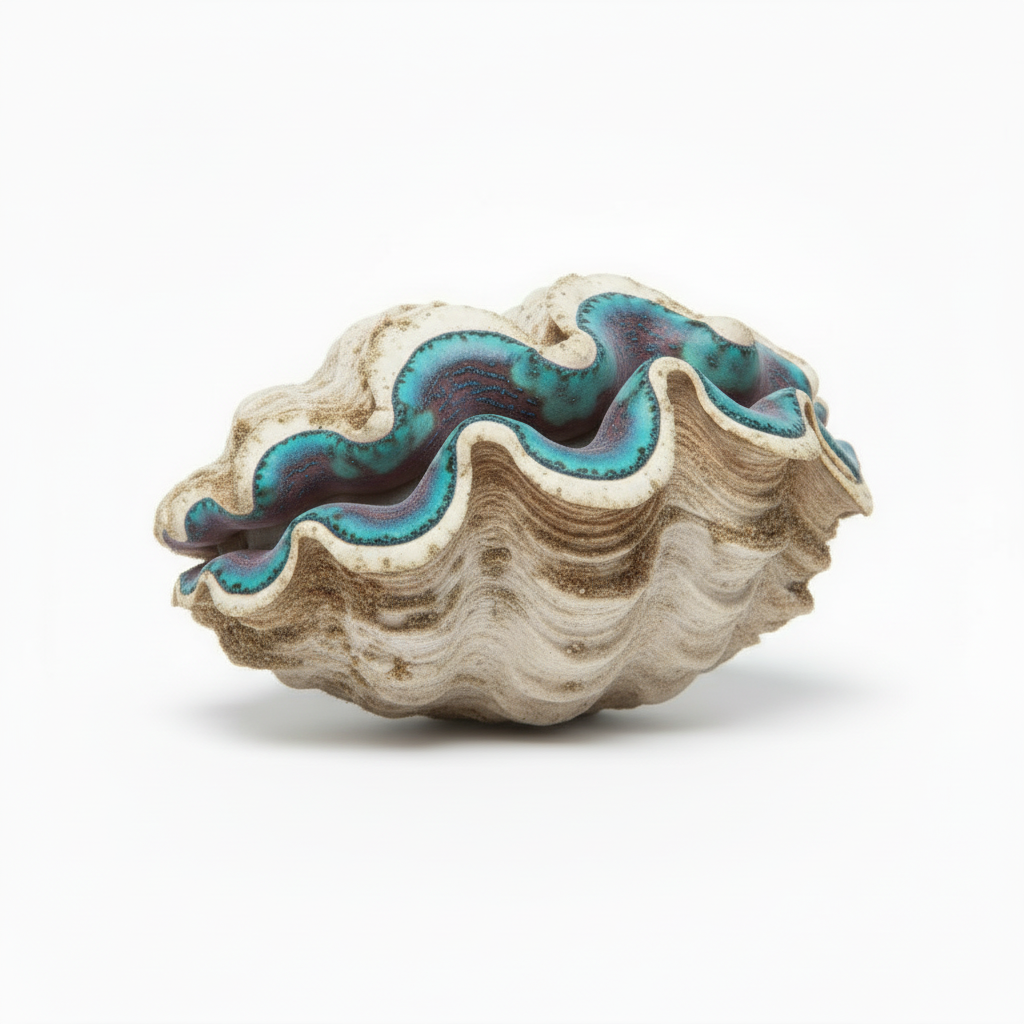
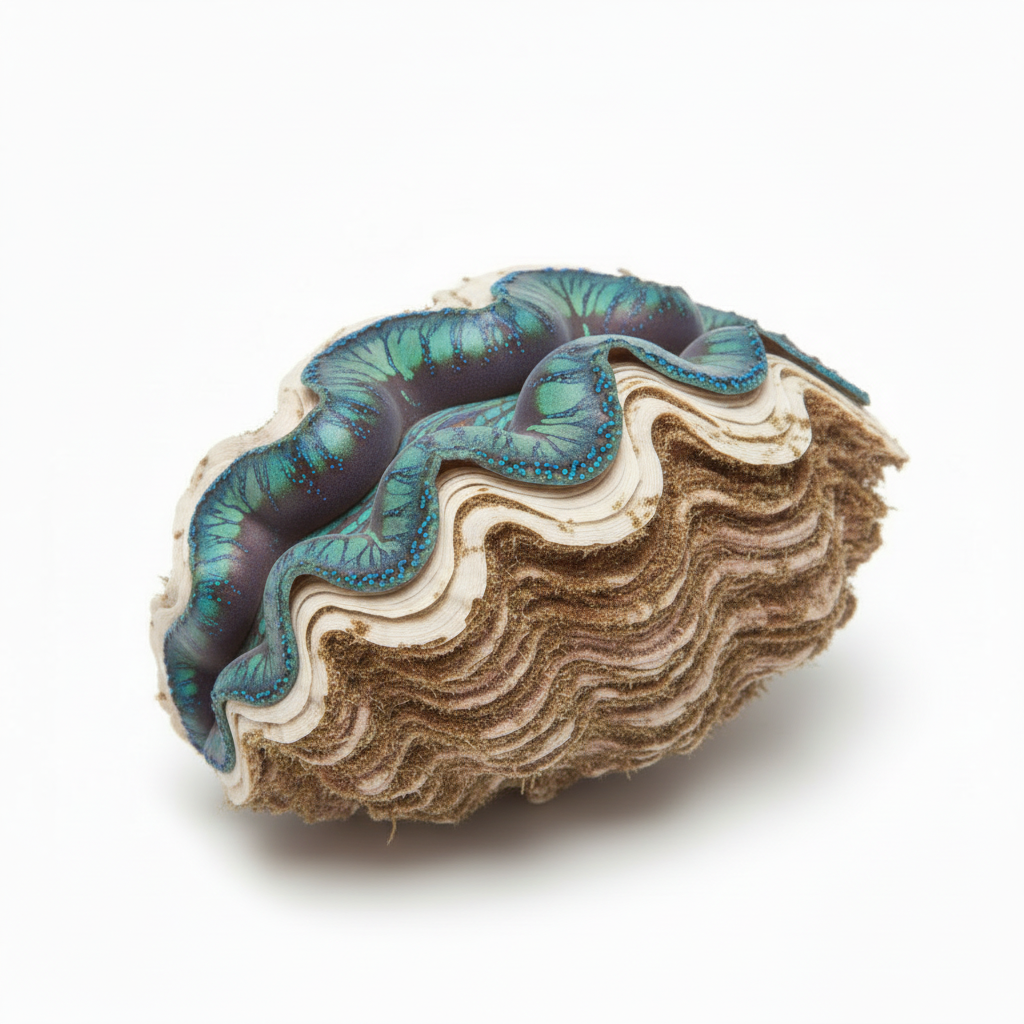
Update kerang illustrations and gallery entries; revise prompts for clarity and accuracy
- Enhanced prompts for left and right views of giant clam (Tridacna) to ensure distinct 90° rotations.
- Updated gallery to reflect the current count of images and corrected descriptions for several illustrations.
- Removed outdated images and replaced them with new versions that meet the specified criteria.
- Added new illustrations for liver and gallbladder, ensuring they adhere to educational standards.

diff --git a/osn-app/image-results/_galeri.html b/osn-app/image-results/_galeri.html
@@ -8,7 +8,7 @@ figcaption span{color:#fff;border-radius:99px;padding:1px 8px;font-size:12px}sma
 .tabs button.active{background:#0f172a;color:#fff;border-color:#0f172a}
 .tabs-mapel button{font-weight:600}
 .tabs-bab{margin-top:12px}</style>
-<h1>Galeri gambar OSN SD</h1><p>1658 gambar dari 352 objek · klik gambar untuk ukuran penuh · muat ulang halaman ini untuk melihat gambar terbaru (setelah menjalankan galeri.mjs lagi)</p>
+<h1>Galeri gambar OSN SD</h1><p>1656 gambar dari 352 objek · klik gambar untuk ukuran penuh · muat ulang halaman ini untuk melihat gambar terbaru (setelah menjalankan galeri.mjs lagi)</p>
 <nav class="tabs tabs-mapel"><button class="tab-mapel active" data-mapel="ipa">IPA</button><button class="tab-mapel" data-mapel="mtk">MTK</button></nav>
 <div class="panel-mapel" data-mapel="ipa" >
 <nav class="tabs tabs-bab"><button class="tab-bab active" data-bab="01-makhluk-hidup">01-makhluk-hidup</button><button class="tab-bab" data-bab="02-tubuh-manusia">02-tubuh-manusia</button><button class="tab-bab" data-bab="03-gaya-gerak-energi">03-gaya-gerak-energi</button><button class="tab-bab" data-bab="04-cahaya-bunyi-panas-zat">04-cahaya-bunyi-panas-zat</button><button class="tab-bab" data-bab="05-bumi-antariksa">05-bumi-antariksa</button><button class="tab-bab" data-bab="06-metode-ilmiah-alat-lab">06-metode-ilmiah-alat-lab</button></nav>
@@ -459,13 +459,9 @@ figcaption span{color:#fff;border-radius:99px;padding:1px 8px;font-size:12px}sma
 <figcaption><b>p06-ilustrasi-turnaround</b> <span style="background:#16a34a">lolos</span><small>Lolos: pupa Papilio hijau menempel tegak dengan sabuk sutra.</small></figcaption></figure></div></section><section><h2>kerang <em>ipa/01-makhluk-hidup/kerang</em></h2><div class="grid"><figure><a href="ipa/01-makhluk-hidup/kerang/p01-realistis-turnaround.png" target="_blank"><img loading="lazy" src="ipa/01-makhluk-hidup/kerang/p01-realistis-turnaround.png" alt="kerang p01-realistis-turnaround.png"></a>
 <figcaption><b>p01-realistis-turnaround</b> <span style="background:#d97706">revisi</span><small>Tampak tidak sesuai (depan, engsel, engsel, depan). Prompt: &quot;Exactly four copies: front (mantle opening), back (hinge side), left side (narrow profile), right side.&quot;</small></figcaption></figure><figure><a href="ipa/01-makhluk-hidup/kerang/p02-realistis-depan.png" target="_blank"><img loading="lazy" src="ipa/01-makhluk-hidup/kerang/p02-realistis-depan.png" alt="kerang p02-realistis-depan.png"></a>
 <figcaption><b>p02-realistis-depan</b> <span style="background:#16a34a">lolos</span><small>Lolos: kima raksasa (Tridacna), cangkang bergelombang, mantel biru-hijau berbintik.</small></figcaption></figure><figure><a href="ipa/01-makhluk-hidup/kerang/p03-realistis-belakang.png" target="_blank"><img loading="lazy" src="ipa/01-makhluk-hidup/kerang/p03-realistis-belakang.png" alt="kerang p03-realistis-belakang.png"></a>
-<figcaption><b>p03-realistis-belakang</b> <span style="background:#16a34a">lolos</span><small>Lolos: kima raksasa (Tridacna), cangkang bergelombang, mantel biru-hijau berbintik.</small></figcaption></figure><figure><a href="ipa/01-makhluk-hidup/kerang/p04-realistis-kiri.png" target="_blank"><img loading="lazy" src="ipa/01-makhluk-hidup/kerang/p04-realistis-kiri.png" alt="kerang p04-realistis-kiri.png"></a>
-<figcaption><b>p04-realistis-kiri</b> <span style="background:#d97706">revisi</span><small>GAGAL LAGI (ke-2 kalinya) — cangkang kima (Tridacna) masih ditampilkan pada sudut diagonal 3/4 yang mirip dengan p05 (kanan): oval besar diagonal dari kiri-bawah ke kanan-atas, mantel biru-hijau bergelombang di sisi atas-kiri, lubang sifon di kanan-bawah. Dibanding p05, perbedaan sudut masih tipis/tidak jelas sebagai cerminan 90°. Karena kima tidak punya &quot;kepala&quot; yang jelas, sarankan memakai posisi lubang sifon sebagai jangkar orientasi yang konsisten. Correction (EN): &quot;Rotate the giant clam shell a clear, unambiguous 90° from the front view so the left-side render is visually distinct from the right-side render — use the siphon hole position as a fixed anatomical anchor to make the rotation unambiguous.&quot;</small></figcaption></figure><figure><a href="ipa/01-makhluk-hidup/kerang/p05-realistis-kanan.png" target="_blank"><img loading="lazy" src="ipa/01-makhluk-hidup/kerang/p05-realistis-kanan.png" alt="kerang p05-realistis-kanan.png"></a>
-<figcaption><b>p05-realistis-kanan</b> <span style="background:#d97706">revisi</span><small>GAGAL LAGI (ke-2 kalinya) — sama seperti p04: sudut diagonal 3/4 yang mirip dengan p04, bukan cerminan 90° yang jelas berbeda. Correction (EN) sama seperti p04.</small></figcaption></figure><figure><a href="ipa/01-makhluk-hidup/kerang/p07-ilustrasi-depan.png" target="_blank"><img loading="lazy" src="ipa/01-makhluk-hidup/kerang/p07-ilustrasi-depan.png" alt="kerang p07-ilustrasi-depan.png"></a>
+<figcaption><b>p03-realistis-belakang</b> <span style="background:#16a34a">lolos</span><small>Lolos: kima raksasa (Tridacna), cangkang bergelombang, mantel biru-hijau berbintik.</small></figcaption></figure><figure><a href="ipa/01-makhluk-hidup/kerang/p07-ilustrasi-depan.png" target="_blank"><img loading="lazy" src="ipa/01-makhluk-hidup/kerang/p07-ilustrasi-depan.png" alt="kerang p07-ilustrasi-depan.png"></a>
 <figcaption><b>p07-ilustrasi-depan</b> <span style="background:#16a34a">lolos</span><small>Lolos: kima raksasa (Tridacna), cangkang bergelombang, mantel biru-hijau berbintik.</small></figcaption></figure><figure><a href="ipa/01-makhluk-hidup/kerang/p08-ilustrasi-belakang.png" target="_blank"><img loading="lazy" src="ipa/01-makhluk-hidup/kerang/p08-ilustrasi-belakang.png" alt="kerang p08-ilustrasi-belakang.png"></a>
-<figcaption><b>p08-ilustrasi-belakang</b> <span style="background:#16a34a">lolos</span><small>Lolos: kima raksasa (Tridacna), cangkang bergelombang, mantel biru-hijau berbintik.</small></figcaption></figure><figure><a href="ipa/01-makhluk-hidup/kerang/p09-ilustrasi-kiri.png" target="_blank"><img loading="lazy" src="ipa/01-makhluk-hidup/kerang/p09-ilustrasi-kiri.png" alt="kerang p09-ilustrasi-kiri.png"></a>
-<figcaption><b>p09-ilustrasi-kiri</b> <span style="background:#d97706">revisi</span><small>GAGAL LAGI (ke-2 kalinya) — versi ilustrasi kiri dan kanan (p09/p10) nyaris IDENTIK: keduanya menampilkan cangkang simetris tampak depan dengan mantel bergelombang biru-ungu-hijau di tengah, tidak ada rotasi 90° yang membedakan kiri vs kanan. Correction (EN): &quot;Rotate the clam a clear 90° from the front view so the left-side illustration is visually distinct from the right-side illustration — the current pair look like near-duplicates of a front/symmetric view.&quot;</small></figcaption></figure><figure><a href="ipa/01-makhluk-hidup/kerang/p10-ilustrasi-kanan.png" target="_blank"><img loading="lazy" src="ipa/01-makhluk-hidup/kerang/p10-ilustrasi-kanan.png" alt="kerang p10-ilustrasi-kanan.png"></a>
-<figcaption><b>p10-ilustrasi-kanan</b> <span style="background:#d97706">revisi</span><small>GAGAL LAGI (ke-2 kalinya) — nyaris identik dengan p09 (kiri), bukan cerminan 90° yang jelas berbeda. Correction (EN) sama seperti p09.</small></figcaption></figure></div></section><section><h2>kerbau-jalak <em>ipa/01-makhluk-hidup/kerbau-jalak</em></h2><div class="grid"><figure><a href="ipa/01-makhluk-hidup/kerbau-jalak/p01-realistis-turnaround.png" target="_blank"><img loading="lazy" src="ipa/01-makhluk-hidup/kerbau-jalak/p01-realistis-turnaround.png" alt="kerbau-jalak p01-realistis-turnaround.png"></a>
+<figcaption><b>p08-ilustrasi-belakang</b> <span style="background:#16a34a">lolos</span><small>Lolos: kima raksasa (Tridacna), cangkang bergelombang, mantel biru-hijau berbintik.</small></figcaption></figure></div></section><section><h2>kerbau-jalak <em>ipa/01-makhluk-hidup/kerbau-jalak</em></h2><div class="grid"><figure><a href="ipa/01-makhluk-hidup/kerbau-jalak/p01-realistis-turnaround.png" target="_blank"><img loading="lazy" src="ipa/01-makhluk-hidup/kerbau-jalak/p01-realistis-turnaround.png" alt="kerbau-jalak p01-realistis-turnaround.png"></a>
 <figcaption><b>p01-realistis-turnaround</b> <span style="background:#16a34a">lolos</span><small>Disusun otomatis dari p02, p03, p04, p05 (depan, belakang, kiri, kanan) yang sudah lolos review.</small></figcaption></figure><figure><a href="ipa/01-makhluk-hidup/kerbau-jalak/p02-realistis-depan.png" target="_blank"><img loading="lazy" src="ipa/01-makhluk-hidup/kerbau-jalak/p02-realistis-depan.png" alt="kerbau-jalak p02-realistis-depan.png"></a>
 <figcaption><b>p02-realistis-depan</b> <span style="background:#16a34a">lolos</span><small>Lolos: kerbau dengan tanduk melengkung ke belakang dan burung jalak bertengger di punggung (simbiosis).</small></figcaption></figure><figure><a href="ipa/01-makhluk-hidup/kerbau-jalak/p03-realistis-belakang.png" target="_blank"><img loading="lazy" src="ipa/01-makhluk-hidup/kerbau-jalak/p03-realistis-belakang.png" alt="kerbau-jalak p03-realistis-belakang.png"></a>
 <figcaption><b>p03-realistis-belakang</b> <span style="background:#16a34a">lolos</span><small>Lolos: kerbau dengan tanduk melengkung ke belakang dan burung jalak bertengger di punggung (simbiosis).</small></figcaption></figure><figure><a href="ipa/01-makhluk-hidup/kerbau-jalak/p04-realistis-kiri.png" target="_blank"><img loading="lazy" src="ipa/01-makhluk-hidup/kerbau-jalak/p04-realistis-kiri.png" alt="kerbau-jalak p04-realistis-kiri.png"></a>
@@ -832,7 +828,9 @@ figcaption span{color:#fff;border-radius:99px;padding:1px 8px;font-size:12px}sma
 <figcaption><b>p05-realistis-kanan</b> <span style="background:#64748b">belum direview</span></figcaption></figure><figure><a href="ipa/02-tubuh-manusia/hati-empedu/p06-ilustrasi-turnaround.png" target="_blank"><img loading="lazy" src="ipa/02-tubuh-manusia/hati-empedu/p06-ilustrasi-turnaround.png" alt="hati-empedu p06-ilustrasi-turnaround.png"></a>
 <figcaption><b>p06-ilustrasi-turnaround</b> <span style="background:#d97706">revisi</span><small>Ada teks FRONT/BACK VIEW/LEFT SIDE/RIGHT VIEW. Prompt: &quot;No text.&quot;</small></figcaption></figure><figure><a href="ipa/02-tubuh-manusia/hati-empedu/p07-ilustrasi-depan.png" target="_blank"><img loading="lazy" src="ipa/02-tubuh-manusia/hati-empedu/p07-ilustrasi-depan.png" alt="hati-empedu p07-ilustrasi-depan.png"></a>
 <figcaption><b>p07-ilustrasi-depan</b> <span style="background:#16a34a">lolos</span><small>Lolos (perlu paraf guru IPA): lobus kanan lebih besar di sisi kiri gambar, ligamen falsiformis, kantong empedu di bawah lobus kanan, vena porta/arteri hepatik.</small></figcaption></figure><figure><a href="ipa/02-tubuh-manusia/hati-empedu/p08-ilustrasi-belakang.png" target="_blank"><img loading="lazy" src="ipa/02-tubuh-manusia/hati-empedu/p08-ilustrasi-belakang.png" alt="hati-empedu p08-ilustrasi-belakang.png"></a>
-<figcaption><b>p08-ilustrasi-belakang</b> <span style="background:#16a34a">lolos</span><small>Lolos (perlu paraf guru IPA): lobus kanan lebih besar di sisi kiri gambar, ligamen falsiformis, kantong empedu di bawah lobus kanan, vena porta/arteri hepatik.</small></figcaption></figure><figure><a href="ipa/02-tubuh-manusia/hati-empedu/p11-penampang-belah.png" target="_blank"><img loading="lazy" src="ipa/02-tubuh-manusia/hati-empedu/p11-penampang-belah.png" alt="hati-empedu p11-penampang-belah.png"></a>
+<figcaption><b>p08-ilustrasi-belakang</b> <span style="background:#16a34a">lolos</span><small>Lolos (perlu paraf guru IPA): lobus kanan lebih besar di sisi kiri gambar, ligamen falsiformis, kantong empedu di bawah lobus kanan, vena porta/arteri hepatik.</small></figcaption></figure><figure><a href="ipa/02-tubuh-manusia/hati-empedu/p09-ilustrasi-kiri.png" target="_blank"><img loading="lazy" src="ipa/02-tubuh-manusia/hati-empedu/p09-ilustrasi-kiri.png" alt="hati-empedu p09-ilustrasi-kiri.png"></a>
+<figcaption><b>p09-ilustrasi-kiri</b> <span style="background:#64748b">belum direview</span></figcaption></figure><figure><a href="ipa/02-tubuh-manusia/hati-empedu/p10-ilustrasi-kanan.png" target="_blank"><img loading="lazy" src="ipa/02-tubuh-manusia/hati-empedu/p10-ilustrasi-kanan.png" alt="hati-empedu p10-ilustrasi-kanan.png"></a>
+<figcaption><b>p10-ilustrasi-kanan</b> <span style="background:#64748b">belum direview</span></figcaption></figure><figure><a href="ipa/02-tubuh-manusia/hati-empedu/p11-penampang-belah.png" target="_blank"><img loading="lazy" src="ipa/02-tubuh-manusia/hati-empedu/p11-penampang-belah.png" alt="hati-empedu p11-penampang-belah.png"></a>
 <figcaption><b>p11-penampang-belah</b> <span style="background:#16a34a">lolos</span><small>Lobus kanan (reddish brown, lebih besar) di sisi KIRI gambar, lobus kiri (lebih pucat, lebih kecil) di sisi KANAN gambar — sesuai konvensi anatomis prompt. Kantong empedu hijau berada di bawah lobus kanan, posisi anatomis benar. Vena portal (ungu), arteri hepatik (merah), vena hepatik (biru) muncul di hilum atas dengan warna sesuai kode prompt. Inset lobulus hati heksagonal dengan vena sentral biru juga sesuai. Tidak ada teks, hanya lingkaran kosong untuk leader line — sesuai zero-text. Tetap disarankan verifikasi guru sains sebagai standar untuk gambar organ.</small></figcaption></figure><figure><a href="ipa/02-tubuh-manusia/hati-empedu/p12-penampang-transparan.png" target="_blank"><img loading="lazy" src="ipa/02-tubuh-manusia/hati-empedu/p12-penampang-transparan.png" alt="hati-empedu p12-penampang-transparan.png"></a>
 <figcaption><b>p12-penampang-transparan</b> <span style="background:#16a34a">lolos</span><small>Lolos (perlu paraf guru IPA): lobus kanan lebih besar di sisi kiri gambar, ligamen falsiformis, kantong empedu di bawah lobus kanan, vena porta/arteri hepatik.</small></figcaption></figure></div></section><section><h2>hidung-penampang <em>ipa/02-tubuh-manusia/hidung-penampang</em></h2><div class="grid"><figure><a href="ipa/02-tubuh-manusia/hidung-penampang/p01-realistis-depan.png" target="_blank"><img loading="lazy" src="ipa/02-tubuh-manusia/hidung-penampang/p01-realistis-depan.png" alt="hidung-penampang p01-realistis-depan.png"></a>
 <figcaption><b>p01-realistis-depan</b> <span style="background:#16a34a">lolos</span><small>Perbaikan berhasil: bulbus olfaktorius (bola di atas) sekarang berwarna krem/ivory pucat konsisten dengan jaringan saraf di sekitarnya, bukan lagi bola merah terang yang dulu menyerupai pembuluh darah/polip. Struktur lain (lubang hidung dengan rambut, konka melingkar bertumpuk, serat saraf) tampak proporsional. Tetap disarankan verifikasi guru sains untuk organ indera.</small></figcaption></figure><figure><a href="ipa/02-tubuh-manusia/hidung-penampang/p02-ilustrasi-depan.png" target="_blank"><img loading="lazy" src="ipa/02-tubuh-manusia/hidung-penampang/p02-ilustrasi-depan.png" alt="hidung-penampang p02-ilustrasi-depan.png"></a>

diff --git a/osn-app/image-prompts/ipa/01-makhluk-hidup/kerang.md b/osn-app/image-prompts/ipa/01-makhluk-hidup/kerang.md
@@ -155,18 +155,38 @@ View: strict FRONT view, full body. Orientation: FRONT = the animal faces the ca
 Using the exact same giant clam (Tridacna) shell slightly open from the previous image, rotate it 180° and show the strict BACK view. Keep everything identical: same object, same illustration style, line weight, shading, colors, proportions, and scale. Full body — nothing cropped. Same pure solid white background (#FFFFFF), no shadow, no text, nothing else in the frame.
 ```
 
-### Prompt 9 — Tampak KIRI
+### Prompt 9 — Tampak KIRI (standalone, bukan lanjutan sesi)
 
 **Simpan hasil sebagai:** `image-results/ipa/01-makhluk-hidup/kerang/p09-ilustrasi-kiri.png`
 
 ```text
-Using the exact same giant clam (Tridacna) shell slightly open from the previous images, rotate it to show the strict LEFT side profile (the object's own left side, exactly 90° from the front view, not three-quarter): the front/head of the object points to the LEFT edge of the image, pure side silhouette, head not turned toward the camera. Keep everything identical: same object, same illustration style, line weight, shading, colors, proportions, and scale. Full body — nothing cropped. Same pure solid white background (#FFFFFF), no shadow, no text, nothing else in the frame.
+High-quality, highly detailed educational illustration of a giant clam (Tridacna) shell slightly open. Two heavy wavy ribbed calcareous valves, cream-white exterior with growth ridges, slightly open to reveal the iridescent blue-green-purple mantle.
+Style: clean modern children's science-textbook illustration for elementary-school students (age 10–12) — crisp confident dark outlines with varied line weight, smooth soft cel shading (2–3 tone steps) plus gentle gradients, bright but true-to-life colors, simplified but anatomically and scientifically accurate shapes, every important part clearly readable. Friendly, clear, and appealing — not cute-chibi, not caricature, no exaggerated eyes or facial expressions.
+Accuracy: correct proportions, colors, number of parts (legs, fins, petals, segments, etc.), and structure exactly as in the real giant clam (Tridacna) shell slightly open.
+Lighting: one soft light source from the upper-left, consistent simple highlights and core shadows on the object only.
+Rendering: vector-like clean edges, high resolution, sharp, suitable for printing and for use as a cut-out sticker.
+Child-appropriate (students aged 10–12): in any rear or back view the tail hangs down naturally and covers the rear; no anus or genitals visible.
+Composition: ONLY this single object, centered, about 10% empty margin on every side.
+FULL BODY: the entire object shown completely from its topmost to bottommost point, including all extremities (legs, tail, antennae, wingtips, fins, roots, stems, cables, handles) — nothing cropped, nothing cut off by the frame edge.
+Background: isolated on a pure, flat, solid white background (#FFFFFF) — absolutely no scene, no environment, no floor, no table, no cast shadow, no reflection, no gradient, no vignette.
+Exclude: text, labels, letters, numbers, arrows, watermark, logo, brand names, human hands, extra objects, blood, gore, photorealism, photographic textures, 3D render look, sketchy or messy lines, paper texture.
+View: strict LEFT side view, full body. Orientation: rotate the SAME giant clam shell 90° from the front view so the camera looks at it edge-on from its left flank: the two overlapping wavy valves are now seen in profile, forming a rounded kidney-shaped silhouette. The straight dark hinge seam runs along the FAR edge of this silhouette (away from the viewer), while the wavy gaping margin where the iridescent mantle shows is visible only as a narrow sliver along the NEAR edge; most of the mantle is hidden from this angle. This must look clearly different from the front and right-side views — not a near-symmetric repeat.
 ```
 
-### Prompt 10 — Tampak KANAN
+### Prompt 10 — Tampak KANAN (standalone, bukan lanjutan sesi)
 
 **Simpan hasil sebagai:** `image-results/ipa/01-makhluk-hidup/kerang/p10-ilustrasi-kanan.png`
 
 ```text
-Using the exact same giant clam (Tridacna) shell slightly open from the previous images, rotate it to show the strict RIGHT side profile (the object's own right side, exactly 90° from the front view): the front/head of the object points to the RIGHT edge of the image (mirror of the left view), pure side silhouette, head not turned toward the camera. Keep everything identical: same object, same illustration style, line weight, shading, colors, proportions, and scale. Full body — nothing cropped. Same pure solid white background (#FFFFFF), no shadow, no text, nothing else in the frame.
+High-quality, highly detailed educational illustration of a giant clam (Tridacna) shell slightly open. Two heavy wavy ribbed calcareous valves, cream-white exterior with growth ridges, slightly open to reveal the iridescent blue-green-purple mantle.
+Style: clean modern children's science-textbook illustration for elementary-school students (age 10–12) — crisp confident dark outlines with varied line weight, smooth soft cel shading (2–3 tone steps) plus gentle gradients, bright but true-to-life colors, simplified but anatomically and scientifically accurate shapes, every important part clearly readable. Friendly, clear, and appealing — not cute-chibi, not caricature, no exaggerated eyes or facial expressions.
+Accuracy: correct proportions, colors, number of parts (legs, fins, petals, segments, etc.), and structure exactly as in the real giant clam (Tridacna) shell slightly open.
+Lighting: one soft light source from the upper-left, consistent simple highlights and core shadows on the object only.
+Rendering: vector-like clean edges, high resolution, sharp, suitable for printing and for use as a cut-out sticker.
+Child-appropriate (students aged 10–12): in any rear or back view the tail hangs down naturally and covers the rear; no anus or genitals visible.
+Composition: ONLY this single object, centered, about 10% empty margin on every side.
+FULL BODY: the entire object shown completely from its topmost to bottommost point, including all extremities (legs, tail, antennae, wingtips, fins, roots, stems, cables, handles) — nothing cropped, nothing cut off by the frame edge.
+Background: isolated on a pure, flat, solid white background (#FFFFFF) — absolutely no scene, no environment, no floor, no table, no cast shadow, no reflection, no gradient, no vignette.
+Exclude: text, labels, letters, numbers, arrows, watermark, logo, brand names, human hands, extra objects, blood, gore, photorealism, photographic textures, 3D render look, sketchy or messy lines, paper texture.
+View: strict RIGHT side view, full body. Orientation: rotate the SAME giant clam shell 90° to the opposite side from the front view — a true mirror image of the left-side illustration: the hinge seam runs along the far edge on the opposite side, the mantle-gape sliver mirrored to the near edge. This must look like a clear mirror of the left-side render, not a near-identical repeat.
 ```

diff --git a/osn-app/image-prompts/ipa/01-makhluk-hidup/kepiting.md b/osn-app/image-prompts/ipa/01-makhluk-hidup/kepiting.md
@@ -145,12 +145,22 @@ Exclude: text, labels, letters, numbers, arrows, watermark, logo, brand names, h
 View: strict FRONT view, full body. Orientation: FRONT = the animal faces the camera head-on; LEFT/RIGHT = full side profile showing the whole body length; BACK = seen from behind (tail end). The object faces the camera squarely: its centerline points straight at the lens and its left and right halves look symmetrical. Camera at mid-height, straight-on, orthographic, absolutely no three-quarter or angled pose.
 ```
 
-### Prompt 8 — Tampak BELAKANG (kirim di chat yang sama setelah Prompt 7)
+### Prompt 8 — Tampak BELAKANG (standalone, bukan lanjutan sesi)
 
 **Simpan hasil sebagai:** `image-results/ipa/01-makhluk-hidup/kepiting/p08-ilustrasi-belakang.png`
 
 ```text
-Using the exact same mud crab (Scylla serrata) from the previous image, rotate it 180° and show the strict BACK view. Keep everything identical: same object, same illustration style, line weight, shading, colors, proportions, and scale. Full body — nothing cropped. Same pure solid white background (#FFFFFF), no shadow, no text, nothing else in the frame.
+High-quality, highly detailed educational illustration of a mud crab (Scylla serrata). Standing. Dark olive-green hard carapace with serrated front edge, two large powerful claws (chelae), four pairs of walking legs, stalked eyes, jointed exoskeleton.
+Style: clean modern children's science-textbook illustration for elementary-school students (age 10–12) — crisp confident dark outlines with varied line weight, smooth soft cel shading (2–3 tone steps) plus gentle gradients, bright but true-to-life colors, simplified but anatomically and scientifically accurate shapes, every important part clearly readable. Friendly, clear, and appealing — not cute-chibi, not caricature, no exaggerated eyes or facial expressions.
+Accuracy: correct proportions, colors, number of parts (legs, fins, petals, segments, etc.), and structure exactly as in the real mud crab (Scylla serrata).
+Lighting: one soft light source from the upper-left, consistent simple highlights and core shadows on the object only.
+Rendering: vector-like clean edges, high resolution, sharp, suitable for printing and for use as a cut-out sticker.
+Child-appropriate (students aged 10–12): in any rear or back view the tail hangs down naturally and covers the rear; no anus or genitals visible.
+Composition: ONLY this single object, centered, about 10% empty margin on every side.
+FULL BODY: the entire object shown completely from its topmost to bottommost point, including all extremities (legs, tail, antennae, wingtips, fins, roots, stems, cables, handles) — nothing cropped, nothing cut off by the frame edge.
+Background: isolated on a pure, flat, solid white background (#FFFFFF) — absolutely no scene, no environment, no floor, no table, no cast shadow, no reflection, no gradient, no vignette.
+Exclude: text, labels, letters, numbers, arrows, watermark, logo, brand names, human hands, extra objects, blood, gore, photorealism, photographic textures, 3D render look, sketchy or messy lines, paper texture.
+View: strict BACK view, full body. Orientation: the SAME mud crab (Scylla serrata) rotated 180° from the front view so the camera looks at its posterior (rear) end: the two large claws (chelae) are folded down and tucked in FRONT of the body, on the far side away from the camera — they must NOT be visible, not even partially open, from this angle. What fills the frame instead is the smooth rear/posterior margin of the carapace (without the serrated frontal teeth seen from the front), the rearmost walking legs trailing to the sides, and possibly the small flattened rear swimming legs. No eyes, no mouthparts, and no claws should be visible or recognizable in this view — if any claw shape is visible, the image is wrong. This must look clearly different from the front view, not a repeat of it with the claws still open.
 ```
 
 ### Prompt 9 — Tampak KIRI
